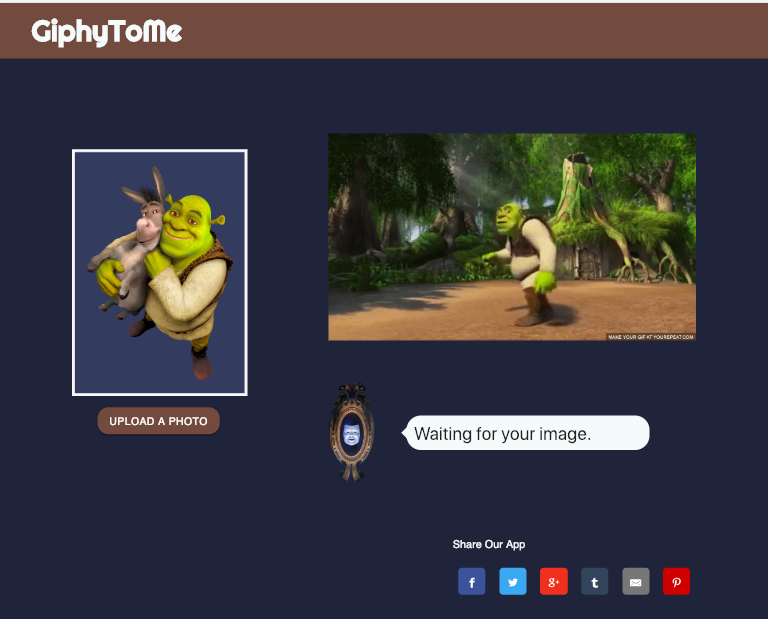
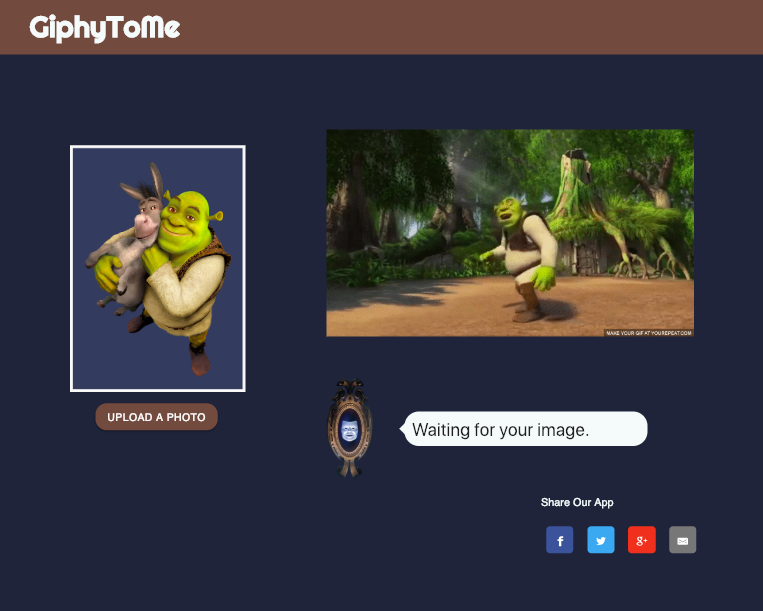
final version

diff --git a/index.html b/index.html
@@ -102,21 +102,6 @@
                     </div>
                   </div>
                 </a>
-
-                <!-- Sharingbutton Tumblr -->
-                <a class="resp-sharing-button__link"
-                  href="https://www.tumblr.com/widgets/share/tool?posttype=link&amp;title=Bored%3F%20Check%20out%20this%20fun%20app.%20&amp;caption=Bored%3F%20Check%20out%20this%20fun%20app.%20&amp;content=https%3A%2F%2Fgiphy-to-me.herokuapp.com%2Findex.html&amp;canonicalUrl=https%3A%2F%2Fgiphy-to-me.herokuapp.com%2Findex.html&amp;shareSource=tumblr_share_button"
-                  target="_blank" rel="noopener" aria-label="">
-                  <div class="resp-sharing-button resp-sharing-button--tumblr resp-sharing-button--small">
-                    <div aria-hidden="true" class="resp-sharing-button__icon resp-sharing-button__icon--solid">
-                      <svg xmlns="http://www.w3.org/2000/svg" viewBox="0 0 24 24">
-                        <path
-                          d="M13.5.5v5h5v4h-5V15c0 5 3.5 4.4 6 2.8v4.4c-6.7 3.2-12 0-12-4.2V9.5h-3V6.7c1-.3 2.2-.7 3-1.3.5-.5 1-1.2 1.4-2 .3-.7.6-1.7.7-3h3.8z" />
-                      </svg>
-                    </div>
-                  </div>
-                </a>
-
                 <!-- Sharingbutton E-Mail -->
                 <a class="resp-sharing-button__link"
                   href="mailto:?subject=Bored%3F%20Check%20out%20this%20fun%20app.%20&amp;body=https%3A%2F%2Fgiphy-to-me.herokuapp.com%2Findex.html"
@@ -126,20 +111,6 @@
                       <svg xmlns="http://www.w3.org/2000/svg" viewBox="0 0 24 24">
                         <path
                           d="M22 4H2C.9 4 0 4.9 0 6v12c0 1.1.9 2 2 2h20c1.1 0 2-.9 2-2V6c0-1.1-.9-2-2-2zM7.25 14.43l-3.5 2c-.08.05-.17.07-.25.07-.17 0-.34-.1-.43-.25-.14-.24-.06-.55.18-.68l3.5-2c.24-.14.55-.06.68.18.14.24.06.55-.18.68zm4.75.07c-.1 0-.2-.03-.27-.08l-8.5-5.5c-.23-.15-.3-.46-.15-.7.15-.22.46-.3.7-.14L12 13.4l8.23-5.32c.23-.15.54-.08.7.15.14.23.07.54-.16.7l-8.5 5.5c-.08.04-.17.07-.27.07zm8.93 1.75c-.1.16-.26.25-.43.25-.08 0-.17-.02-.25-.07l-3.5-2c-.24-.13-.32-.44-.18-.68s.44-.32.68-.18l3.5 2c.24.13.32.44.18.68z" />
-                      </svg>
-                    </div>
-                  </div>
-                </a>
-
-                <!-- Sharingbutton Pinterest -->
-                <a class="resp-sharing-button__link"
-                  href="https://pinterest.com/pin/create/button/?url=https%3A%2F%2Fgiphy-to-me.herokuapp.com%2Findex.html&amp;media=https%3A%2F%2Fgiphy-to-me.herokuapp.com%2Findex.html&amp;description=Bored%3F%20Check%20out%20this%20fun%20app.%20"
-                  target="_blank" rel="noopener" aria-label="">
-                  <div class="resp-sharing-button resp-sharing-button--pinterest resp-sharing-button--small">
-                    <div aria-hidden="true" class="resp-sharing-button__icon resp-sharing-button__icon--solid">
-                      <svg xmlns="http://www.w3.org/2000/svg" viewBox="0 0 24 24">
-                        <path
-                          d="M12.14.5C5.86.5 2.7 5 2.7 8.75c0 2.27.86 4.3 2.7 5.05.3.12.57 0 .66-.33l.27-1.06c.1-.32.06-.44-.2-.73-.52-.62-.86-1.44-.86-2.6 0-3.33 2.5-6.32 6.5-6.32 3.55 0 5.5 2.17 5.5 5.07 0 3.8-1.7 7.02-4.2 7.02-1.37 0-2.4-1.14-2.07-2.54.4-1.68 1.16-3.48 1.16-4.7 0-1.07-.58-1.98-1.78-1.98-1.4 0-2.55 1.47-2.55 3.42 0 1.25.43 2.1.43 2.1l-1.7 7.2c-.5 2.13-.08 4.75-.04 5 .02.17.22.2.3.1.14-.18 1.82-2.26 2.4-4.33.16-.58.93-3.63.93-3.63.45.88 1.8 1.65 3.22 1.65 4.25 0 7.13-3.87 7.13-9.05C20.5 4.15 17.18.5 12.14.5z" />
                       </svg>
                     </div>
                   </div>

diff --git a/README.md b/README.md
@@ -2,6 +2,8 @@
 
 GiphyToMe is a facial recognition application where you may upload a photo in order to generate gifs and text associated with the physical attributes recognized through your upload.  
 
+![](assets/images/giphyToMe.png)
+
 ## Getting Started
 
 To start this process, visit https://giphy-to-me.herokuapp.com/index.html and upload a photo. As soon as you have selected your photo, a gif and randomly generated texts will populate the screen. You may also share your results by clicking the "Share" button underneath the populated text. 
@@ -18,6 +20,16 @@ You may upload a photo or many. The physical attributes recognized in your photo
 
 You may want to upload another photo to retrieve a new gif and set of correlating text. Face++ has many features and can assess for many physical attributes, but we are pulling only age, beauty, and gender to generate text.
 
+### Notable code snippets
+
+The code snippet we showed the class is in our main.js file, from lines 470 to 514. This snippet displays the text letter by letter, and chat bubble by bubble. 
+
+### Notable blocks to functionality
+
+Firstly, we had trouble displaying the text letter by letter because we had to accertain that the first line would finish before the second bubble would append to the screen. 
+
+Secondly, our upload image button was difficult to style. We basically could not, so we created an inviable input div for the image under the upload button. This guaranteed both functionality and asthetics. 
+
 ## Deployment
 
 This site is accessible by https://giphy-to-me.herokuapp.com/index.html. Our GitHub repository is https://github.com/cvanglee/House-Martell.
@@ -28,6 +40,8 @@ This site is accessible by https://giphy-to-me.herokuapp.com/index.html. Our Git
 * [Google Fonts](https://fonts.googleapis.com/css?family=Oxygen|Righteous|Roboto) - Font Styling
 * [Giphy](https://media.giphy.com/media/GqtNlBsWoEXDy/giphy.gif) - API used to generate random gifs
 * [Face++](https://api-us.faceplusplus.com/) - API used to analyze photos
+* [Share Button](https://sharingbuttons.io/) - Share buttons used
+* [Chat Bubble](https://leaverou.github.io/bubbly/) - Chat bubbles used
 
 ## Authors
 
